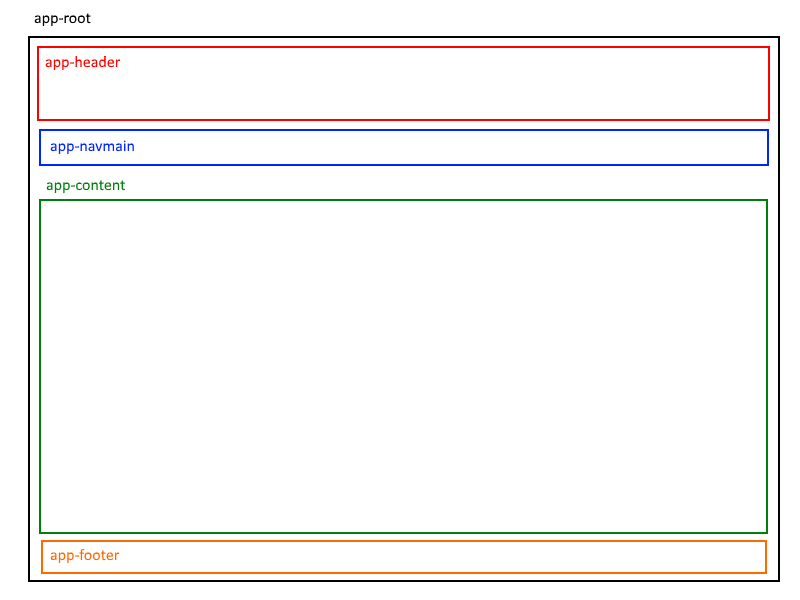
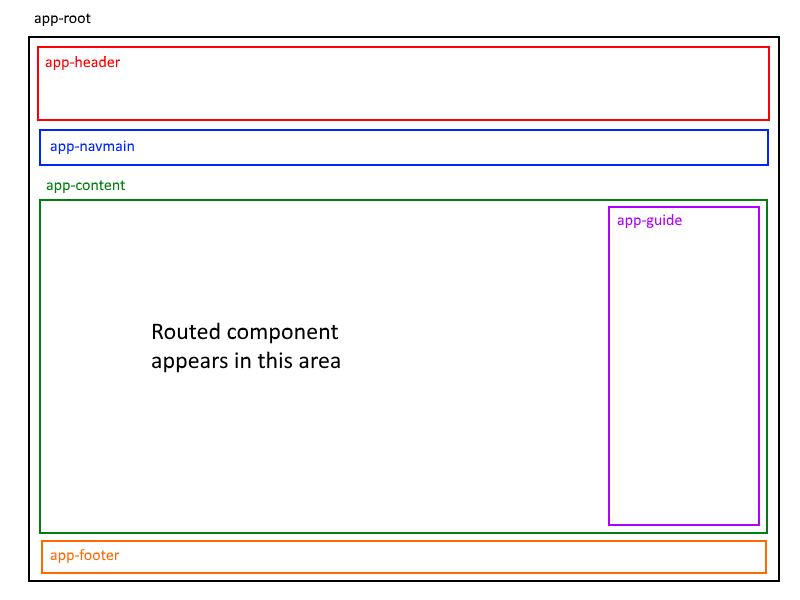
Updated components-example, etc.

Changed region(s): [[0.1875, 0.54, 0.4375, 0.63], [0.75, 0.33, 0.9375, 0.39], [0.7812, 0.87, 0.9375, 0.9]]

diff --git a/notes/angular-components-example.md b/notes/angular-components-example.md
@@ -81,7 +81,7 @@ Create the app's basic structural components:
 * Header
 * Navigation (named "NavMain")
 * Main content (named "Content")
-* Secondary content (named "Guide")
+* Secondary content (named "Guide"; often known as a "Sidebar") 
 * Footer
 
 This is done with Angular CLI commands:
@@ -92,6 +92,25 @@ ng g c navmain --flat
 ng g c content --flat
 ng g c guide --flat
 ng g c footer --flat
+```
+
+To review, the `ng g c` command creates the component's source code files, and updates the app module (by adding import-related code). A few notes about the source code files and generated code, using the first command above, "header":
+
+In `header.component.ts`:
+* A class named `HeaderComponent` is created
+* Its selector is `app-header` 
+
+In `header.component.html`, some getting-started text is generated. We always replace that generated text with our own. For example (using Bootstrap classes): 
+
+```html
+<div class='header'>
+  <div class='row'>
+    <img class='img-fluid' src='https://via.placeholder.com/800x100' alt='Welcome'>
+  </div>
+  <div class='row'>
+    <p>This is the header component</p>
+  </div>
+</div>
 ```
 
 <br>
@@ -132,8 +151,123 @@ ng g c eagle --flat
 ng g c dolphin --flat
 ```
 
+At this point, you can edit the HTML template content to meet your needs. For example, the "horse" component has this HTML template (the text content is from Wikipedia, and the image is from a Google search):
+
+```html
+<div class="horse">
+  <h3>Horse</h3>
+  <p>The horse (Equus ferus caballus)[2][3] is one of two extant subspecies of Equus ferus. It is an odd-toed ungulate mammal belonging to the taxonomic family Equidae. </p>
+  <p>The horse has evolved over the past 45 to 55 million years from a small multi-toed creature, Eohippus, into the large, single-toed animal of today. Humans began to domesticate horses around 4000 BC, and their domestication is believed to have been widespread by 3000 BC. Horses in the subspecies caballus are domesticated, although some domesticated populations live in the wild as feral horses. These feral populations are not true wild horses, as this term is used to describe horses that have never been domesticated, such as the endangered Przewalski's horse, a separate subspecies, and the only remaining true wild horse. There is an extensive, specialized vocabulary used to describe equine-related concepts, covering everything from anatomy to life stages, size, colors, markings, breeds, locomotion, and behavior.</p>
+  <img src="http://ashs.com.au/images/New_Buttons-2017-03-24/StudBook3.png" alt="Horse" class="w-25">
+</div>
+```
+
 <br>
 
-> ( more to come )
+### Add route info for the routed components
+
+Edit the app routing module. 
+
+Add the import statements:
+
+```javascript
+import { HorseComponent } from "./horse.component";
+import { LizardComponent } from "./lizard.component";
+import { BearComponent } from "./bear.component";
+import { EagleComponent } from "./eagle.component";
+import { DolphinComponent } from "./dolphin.component";
+import { HomeComponent } from "./home.component";
+import { PageNotFoundComponent } from "./page-not-found.component";
+```
+
+Next, add *route objects* to the `routes` array:
+
+```js
+const routes: Routes = [
+
+  // add routes here, for example...
+
+  { path: 'horse', component: HorseComponent },
+  { path: 'lizard', component: LizardComponent },
+  { path: 'bear', component: BearComponent },
+  { path: 'eagle', component: EagleComponent },
+  { path: 'dolphin', component: DolphinComponent },
+  { path: 'home', component: HomeComponent },
+  { path: '', redirectTo: '/home', pathMatch: 'full' },
+  { path: '**', component: PageNotFoundComponent }
+
+];
+```
+
+<br>
+
+### Building the user interface
+
+In the root of the project's file system, the `index.html` source code file can be left as-is, with no changes required. 
+
+The first substantial change will be in the app component's HTML template. (Why? Because that is used - bootstrapped - when the app loads for the first time.)
+
+Here, we will add elements for each of the structural components:
+
+```html
+<div class="container">
+  <app-header></app-header>
+  <app-navmain></app-navmain>
+  <app-content></app-content>
+  <app-footer></app-footer>
+</div>
+```
+
+Notice the `app-content` selector. Let's look at the "content" component next. Only its HTML template is interesting:
+
+```html
+<div class="content row">
+  <div class="col-md-9">
+      <router-outlet></router-outlet>
+    </div>
+  <div class="col-md-3">
+      <app-guide></app-guide>
+  </div>
+</div>
+```
+
+Ah, very interesting. HTML content for the routed component will appear *below* the `<router-outlet>` element. The content will change as a result of user interaction. 
+
+An important idea here is that the selectors for the routed components *do not* appear in any template anywhere. In fact, the `selector` member of the [Component decorator](https://angular.io/api/core/Component) is optional (because it is defined as nullable, `selector?: string`). 
+
+#### Making a routed component appear - navigation
+
+The navigation component - i.e. the menu bar - will be used here to make routed components appear. 
+
+Open the HTML template for the navigation component. Create a standard navigation menu:
+
+```html
+<div class="navmain row">
+  <ul class="nav">
+    <li class="nav-item">
+        <a class="nav-link" routerLink="/home"><b>Home page</b></a>
+    </li>
+    <li class="nav-item">
+        <a class="nav-link" routerLink="/horse">Horse</a>
+    </li>
+    <li class="nav-item">
+        <a class="nav-link" routerLink="/lizard">Lizard</a>
+    </li>
+    <li class="nav-item">
+          <a class="nav-link" routerLink="/bear">Bear</a>
+    </li>
+    <li class="nav-item">
+        <a class="nav-link" routerLink="/eagle">Eagle</a>
+    </li>
+    <li class="nav-item">
+        <a class="nav-link" routerLink="/dolphin">Dolphin</a>
+    </li>
+  </ul>
+</div>
+```
+
+The result will look something like the following:
+
+![Navigation menu](../media/angular-routing-v1-nav.png)
 
 <br>

diff --git a/notes/angular-routing-intro.md b/notes/angular-routing-intro.md
@@ -164,7 +164,15 @@ One of the first tasks in designing any app is to *sketch out* the user interfac
 
 This task will enable you to clearly and separately *list or document* the components that will enable your UI and interaction plan. Some will be structural (in that they will appear on every screen), while others will be routed components. 
 
-Finally, you will be able to design or infer the URL path segments for each routed component. 
+Let's assume that we will continue with the example from last week's components coverage. In other words, we're creating an "animals" app, with many components. Here's an example of a sketch, showing an example UI and interaction flow, for a couple of animals:
+
+![Animals app UI and interaction flow](../media/angular-routing-v1-nav-example.png)
+
+<br>
+
+Finally, as a result of sketching out the UI and interaction flow, and then listing/documenting the components that are needed, you will be able to design or infer the URL path segments for each routed component. 
+
+> Some of this work is done in the companion [getting started](angular-routing-example) document. 
 
 The result will enable you to begin creating components, using the Angular CLI generator. 
 

diff --git a/notes/angular-routing-example.md b/notes/angular-routing-example.md
@@ -14,7 +14,7 @@ The goal is to become comfortable with the routing foundations and configuration
 
 <br>
 
-### Getting started (more to come)
+### Getting started
 
 Here's what we're trying to do...  
 
